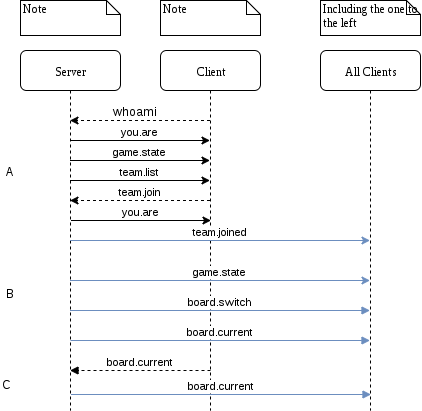
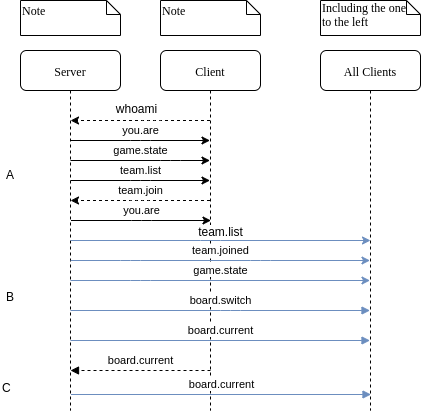
Support dynamic creation of teams. (#18)

diff --git a/src/components/TeamPicker.vue b/src/components/TeamPicker.vue
@@ -1,6 +1,6 @@
 <template>
     <div class="team-picker">
-        <template v-if="selectedTeam === null">
+        <template v-if="!hideList">
             <h1>Team Picker</h1>
 
             <div class="player-choice" v-for="team in teamList" :key="team.id">
@@ -15,8 +15,17 @@
                 </div>
             </div>
 
+            <div class="player-choice" v-if="teamCount < maxTeams">
+                <div class="player-select" @click="selectTeam(teamCount + 1)">
+                    Create Team
+                </div>
+            </div>
+
             <div class="loading" v-if="teamList == null">
                 Loading...
+            </div>
+            <div class="team-count" v-else>
+                {{ teamCount }} of {{ maxTeams }} teams joined.
             </div>
         </template>
 
@@ -57,14 +66,17 @@
             return {
                 selectedTeam: null,
                 adminLogin: false,
+                hideList: false,
                 key: null,
                 name: null,
             }
         },
         computed: {
-            ...mapGetters(['teamList', 'getTeam']),
+            ...mapGetters(['teamList', 'getTeam', 'teamCount', 'maxTeams']),
             currentTeam() {
-                return this.getTeam(this.selectedTeam);
+                if (this.selectedTeam === null) { return; }
+
+                return this.getTeam(this.selectedTeam) || { id: this.selectedTeam, name: '', taken: false };
             },
             showAdmin() {
                 return window.jeopardy.admin;
@@ -73,6 +85,7 @@
         methods: {
             selectTeam(id) {
                 this.selectedTeam = id;
+                this.hideList = true;
             },
             join() {
                 this.$socket.emit('team.join', {
@@ -94,7 +107,7 @@
             },
             loginAdmin() {
                 this.adminLogin = true;
-                this.selectedTeam = true;
+                this.hideList = true;
             },
         }
     }

diff --git a/src/components/WaitingRoom.vue b/src/components/WaitingRoom.vue
@@ -1,5 +1,8 @@
 <template>
-    <h1>{{ message }}</h1>
+    <div class="waiting-room">
+        <h1>{{ message }}</h1>
+        <h2>Team: {{ team }}</h2>
+    </div>
 </template>
 
 <script>
@@ -8,7 +11,11 @@
     export default {
         name: 'waiting-room',
         computed: {
-            ...mapGetters(['gameState']),
+            ...mapGetters(['gameState', 'currentTeam']),
+            team() {
+                const team = this.currentTeam;
+                return team.name || team.id;
+            },
             message() {
                 if (this.gameState === "waiting") {
                     return "Waiting for game to start";
@@ -20,3 +27,9 @@
         }
     }
 </script>
+
+<style scoped>
+    .waiting-room {
+        color: white;
+    }
+</style>

diff --git a/src/store/getters.js b/src/store/getters.js
@@ -15,7 +15,11 @@ export const teamList = (state) => {
 };
 
 export const teamCount = (state) => {
-    return state.teams.length;
+    return state.teams ? state.teams.length : 0;
+};
+
+export const maxTeams = (state) => {
+    return state.max_teams;
 };
 
 export const getTeam = (state) => {
@@ -26,6 +30,10 @@ export const getTeam = (state) => {
             return null;
         }
     }
+};
+
+export const currentTeam = (state) => {
+    return getTeam(state)(state.team);
 };
 
 export const currentBoard = (state) => {

diff --git a/src/store/mutations.js b/src/store/mutations.js
@@ -8,12 +8,13 @@ export const setState = (state, gameState) => {
     state.state = gameState;
 };
 
-export const setTeams = (state, teams) => {
+export const setTeams = (state, {teams, max_teams}) => {
     state.teams = teams;
+    state.max_teams = max_teams;
 };
 
 export const teamJoin = (state, {team, name}) => {
-    let found_team = state.teams.find(t => team === t.id)
+    let found_team = state.teams.find(t => team === t.id);
     found_team.taken = true;
     found_team.name = name;
 };

diff --git a/src/store/actions.js b/src/store/actions.js
@@ -6,8 +6,8 @@ export const socket_gameState = (context, {state}) => {
     context.commit('setState', state);
 };
 
-export const socket_teamList = (context, {teams}) => {
-    context.commit('setTeams', teams);
+export const socket_teamList = (context, {teams, max_teams}) => {
+    context.commit('setTeams', { teams, max_teams });
 };
 
 export const socket_teamJoined = (context, data) => {

diff --git a/src/store/index.js b/src/store/index.js
@@ -12,6 +12,7 @@ const state = {
     team: null,
     logged_in: false,
     teams: null,
+    max_teams: 0,
     board: null,
     currentQuestion: null,
     buzzer: false,

diff --git a/jeopardy/controllers/main.py b/jeopardy/controllers/main.py
@@ -8,7 +8,7 @@ from jeopardy.extensions import socketio
 from jeopardy.models import BoardManager, Team
 from jeopardy.utils import team_required, admin_required
 
-from .utils import get_team_list, send_identity, send_board_current
+from .utils import get_team_list, send_identity, send_board_current, send_team_list
 
 bm = None  # type: BoardManager
 redis = None  # type: StrictRedis
@@ -55,8 +55,7 @@ def whoami():
 
     logged_in = session.get('logged_in', False)
     if not logged_in:
-        teams = get_team_list(bm)
-        emit('team.list', {'teams': teams})
+        send_team_list(bm)
 
     if session.get('admin', False) and bm.current_board:
         send_board_current(bm)
@@ -81,6 +80,7 @@ def team_join(data):
             session['logged_in'] = True
             session.modified = True
 
+            send_team_list(bm, broadcast=True)
             send_identity()
             emit('team.joined', {
                 'team': team_id,

diff --git a/jeopardy/controllers/utils.py b/jeopardy/controllers/utils.py
@@ -15,13 +15,6 @@ def get_team_list(bm: BoardManager):
                 'taken': True,
                 'score': 0,
             })
-        else:
-            teams.append({
-                'id': i,
-                'name': None,
-                'taken': False,
-                'score': 0,
-            })
     return teams
 
 
@@ -31,6 +24,11 @@ def send_identity():
         'team': session.get('team', None),
         'logged_in': session.get('logged_in', False),
     })
+
+
+def send_team_list(bm: BoardManager, broadcast: bool = False):
+    teams = get_team_list(bm)
+    emit('team.list', {'teams': teams, 'max_teams': bm.num_teams}, broadcast=broadcast)
 
 
 def send_board_current(bm: BoardManager):
